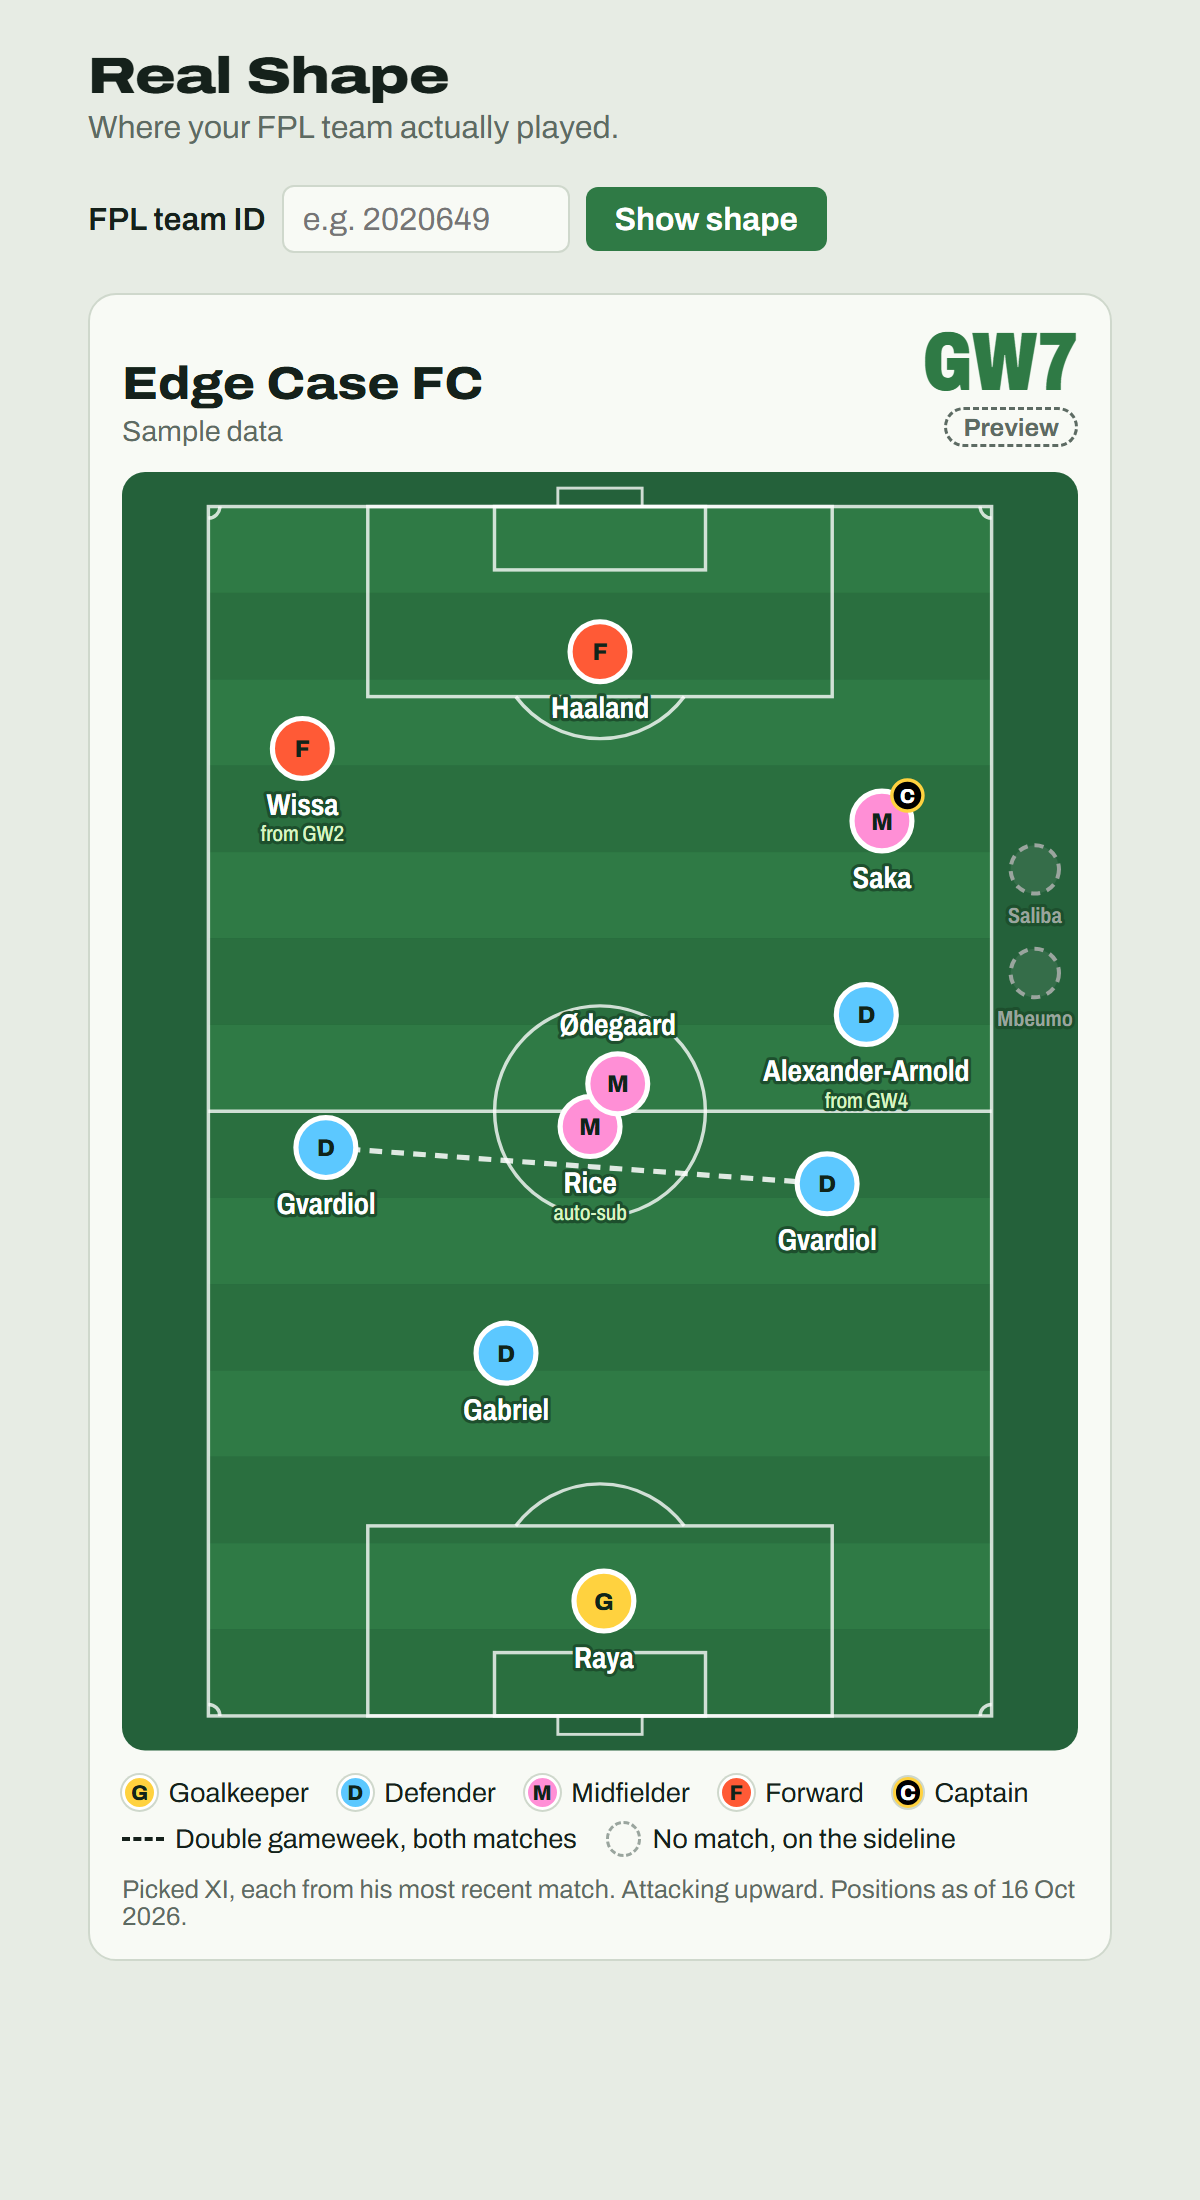
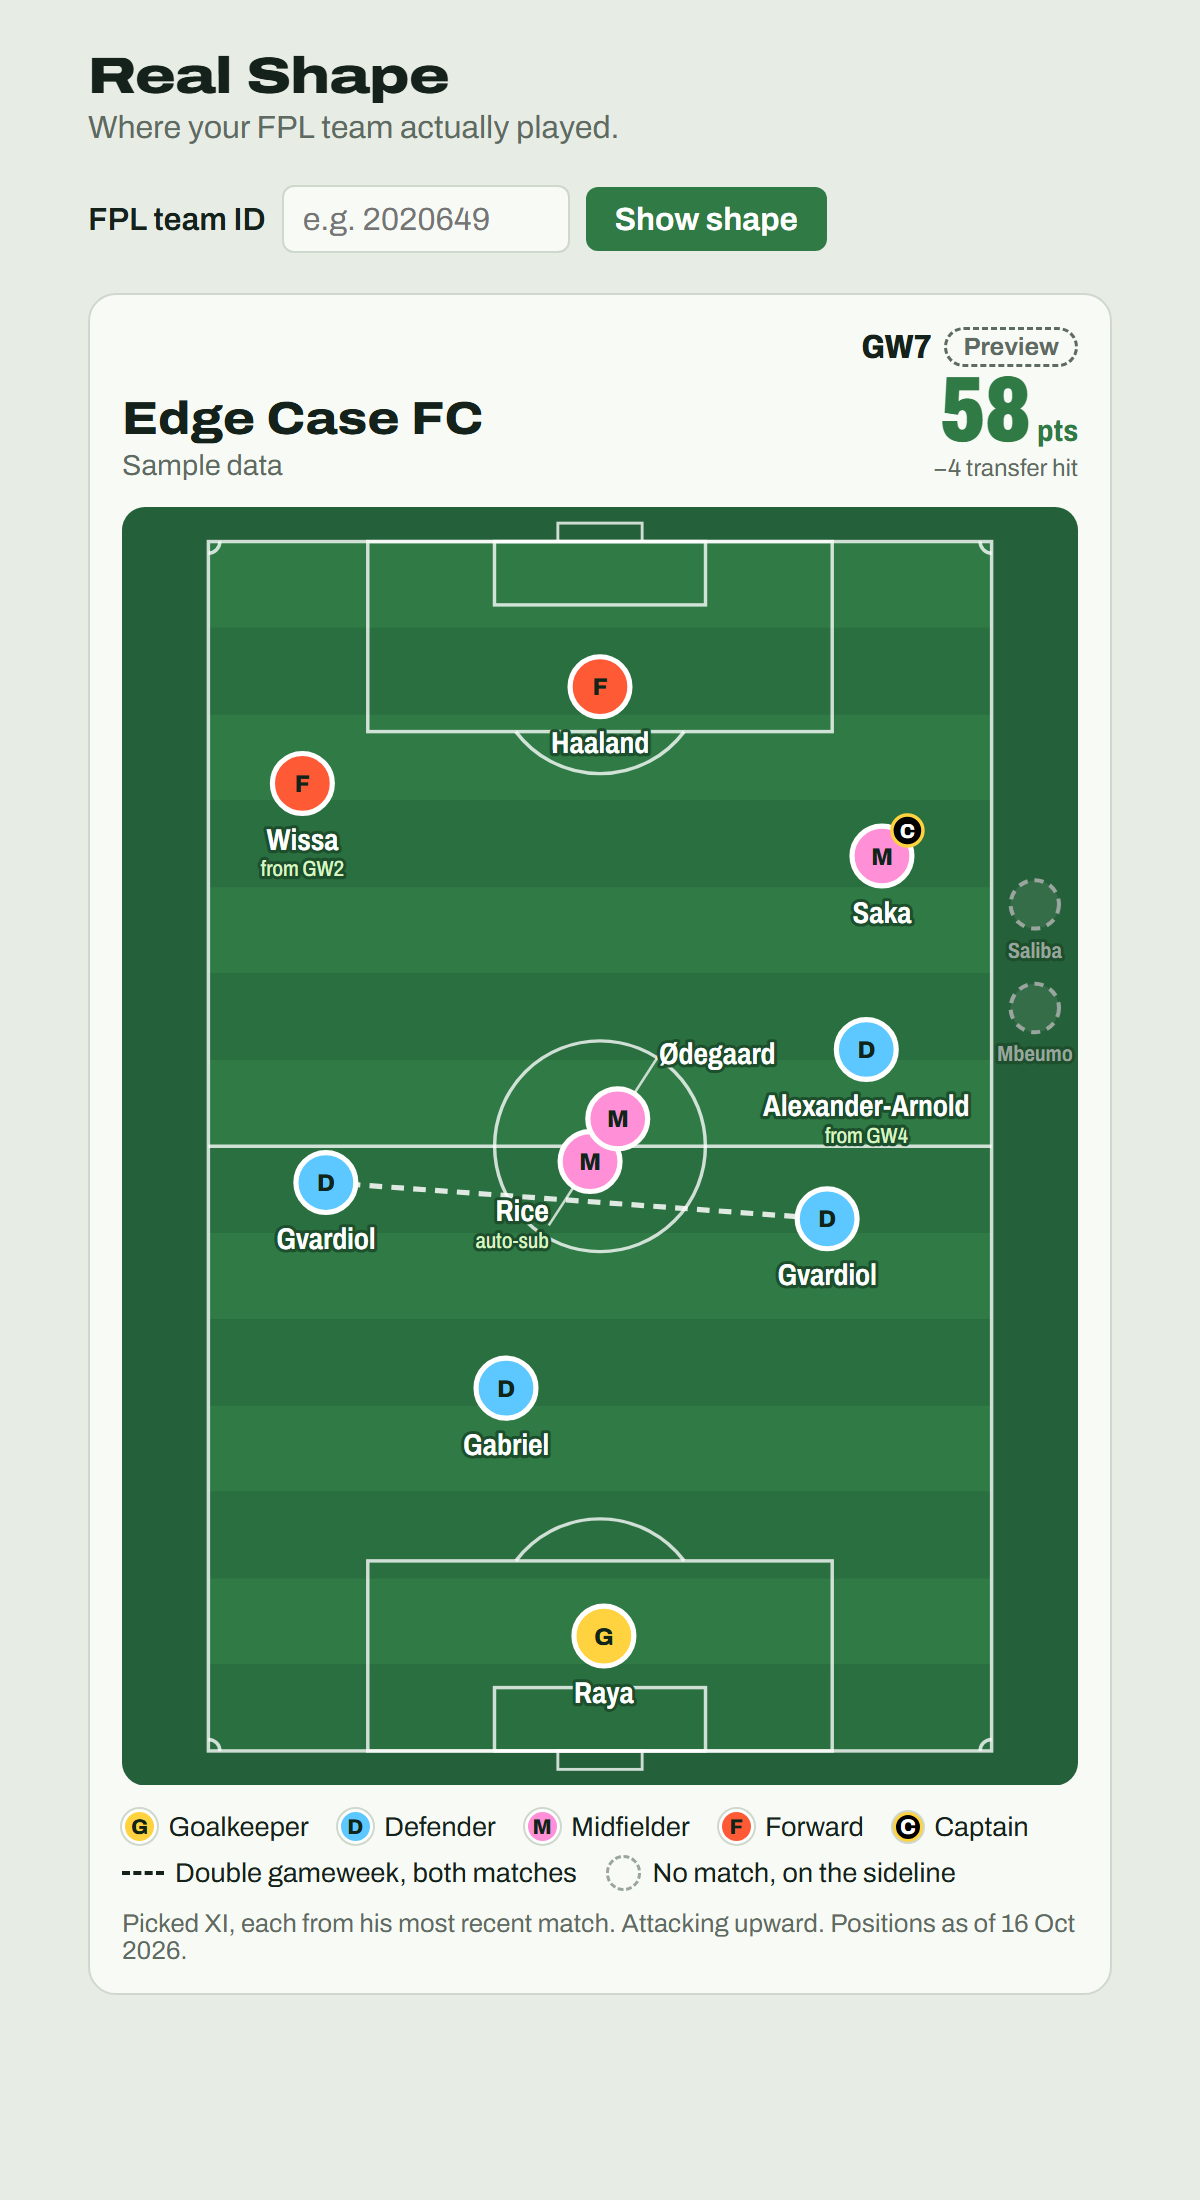
Add gameweek score and leader-line labels to the pitch (task 13 feedback)

Changed region(s): [[0.0925, 0.34, 0.8942, 0.8964], [0.0925, 0.1236, 0.8942, 0.3709], [0.2158, 0.3091, 0.3083, 0.4018]]

diff --git a/frontend/src/pitchLayout.ts b/frontend/src/pitchLayout.ts
@@ -36,6 +36,8 @@ export type LaidDot = {
   label: { x: number; y: number; anchor: 'middle' | 'start' | 'end' }
   // Second line under the name ("from GW4", "auto-sub"), if any.
   sub: string | null
+  // Line from the dot's edge to a label placed away from a crowded dot.
+  leader: [number, number, number, number] | null
 }
 
 export type Layout = {
@@ -115,45 +117,106 @@ function separate(dots: LaidDot[]) {
   }
 }
 
+// A dot with another dot this close is "crowded": its label moves out of the
+// cluster on a leader line, so it is clear which dot a name belongs to.
+const CROWD_DIST = DOT_R * 4.2
+const LABEL_GAP = 1.1
+const CALLOUT_DISTANCES = [DOT_R + 4, DOT_R + 7, DOT_R + 10.5]
+
+const area = (a: Box, b: Box) =>
+  Math.max(0, Math.min(a.x1, b.x1) - Math.max(a.x0, b.x0)) *
+  Math.max(0, Math.min(a.y1, b.y1) - Math.max(a.y0, b.y0))
+
+type Segment = [number, number, number, number]
+
+function segmentsCross([ax, ay, bx, by]: Segment, [cx, cy, dx, dy]: Segment) {
+  const side = (px: number, py: number, qx: number, qy: number, rx: number, ry: number) =>
+    Math.sign((qx - px) * (ry - py) - (qy - py) * (rx - px))
+  return (
+    side(ax, ay, bx, by, cx, cy) * side(ax, ay, bx, by, dx, dy) < 0 &&
+    side(cx, cy, dx, dy, ax, ay) * side(cx, cy, dx, dy, bx, by) < 0
+  )
+}
+
+// Distance from a circle centre to a segment, to catch leader lines through dots.
+function segmentDistance([ax, ay, bx, by]: Segment, px: number, py: number) {
+  const len2 = (bx - ax) ** 2 + (by - ay) ** 2
+  const t = len2 === 0 ? 0 : Math.max(0, Math.min(1, ((px - ax) * (bx - ax) + (py - ay) * (by - ay)) / len2))
+  return Math.hypot(ax + t * (bx - ax) - px, ay + t * (by - ay) - py)
+}
+
+// The label whose box touches point (px, py) on the side facing `angle` from the dot.
+function labelAt(d: LaidDot, angle: number, px: number, py: number): LaidDot['label'] {
+  const h = NAME_SIZE + (d.sub ? SUB_SIZE + 0.4 : 0)
+  const cos = Math.cos(angle)
+  const sin = Math.sin(angle)
+  if (cos > 0.4) return { x: px, y: py - h / 2 + NAME_SIZE * 0.8, anchor: 'start' }
+  if (cos < -0.4) return { x: px, y: py - h / 2 + NAME_SIZE * 0.8, anchor: 'end' }
+  return { x: px, y: sin > 0 ? py + NAME_SIZE * 0.8 : py - h + NAME_SIZE * 0.8, anchor: 'middle' }
+}
+
 function placeLabels(dots: LaidDot[]) {
   const placed: Box[] = []
-  const bounds: Box = { x0: 0, y0: 0, x1: VIEW_W, y1: VIEW_H }
-  const inside = (b: Box) => b.x0 >= bounds.x0 && b.x1 <= bounds.x1 && b.y0 >= bounds.y0 && b.y1 <= bounds.y1
-  // Top of the pitch first, so attackers get first pick of the space below them.
-  const order = [...dots].sort((a, b) => a.cy - b.cy)
+  const lines: Segment[] = []
+  const inside = (b: Box) => b.x0 >= 0 && b.x1 <= VIEW_W && b.y0 >= 0 && b.y1 <= VIEW_H
+  const crowded = new Set(
+    dots.filter((d) => dots.some((o) => o !== d && Math.hypot(o.cx - d.cx, o.cy - d.cy) < CROWD_DIST)),
+  )
+  // Lone dots first (they only need the space next to them), each group top first.
+  const order = [...dots].sort((a, b) => Number(crowded.has(a)) - Number(crowded.has(b)) || a.cy - b.cy)
+
   for (const d of order) {
-    const lines = d.sub ? NAME_SIZE + SUB_SIZE + 0.4 : NAME_SIZE
-    const gap = 1.1
-    const candidates: LaidDot['label'][] = [
-      { x: d.cx, y: d.cy + d.r + gap + NAME_SIZE * 0.8, anchor: 'middle' },
-      { x: d.cx, y: d.cy - d.r - gap - lines + NAME_SIZE * 0.8, anchor: 'middle' },
-      { x: d.cx + d.r + gap, y: d.cy + NAME_SIZE * 0.3, anchor: 'start' },
-      { x: d.cx - d.r - gap, y: d.cy + NAME_SIZE * 0.3, anchor: 'end' },
-      { x: d.cx + d.r * 0.7, y: d.cy + d.r + gap + NAME_SIZE * 0.8, anchor: 'start' },
-      { x: d.cx - d.r * 0.7, y: d.cy + d.r + gap + NAME_SIZE * 0.8, anchor: 'end' },
-      { x: d.cx + d.r * 0.7, y: d.cy - d.r - gap - lines + NAME_SIZE * 0.8, anchor: 'start' },
-      { x: d.cx - d.r * 0.7, y: d.cy - d.r - gap - lines + NAME_SIZE * 0.8, anchor: 'end' },
-    ]
-    // First spot that collides with nothing, else the one with the least overlap.
-    const area = (a: Box, b: Box) =>
-      Math.max(0, Math.min(a.x1, b.x1) - Math.max(a.x0, b.x0)) *
-      Math.max(0, Math.min(a.y1, b.y1) - Math.max(a.y0, b.y0))
-    let chosen = candidates[0]
+    type Option = { label: LaidDot['label']; leader: Segment | null }
+    const options: Option[] = []
+    if (!crowded.has(d)) {
+      // Below, above, right, left, then the diagonals.
+      const angles = [90, -90, 0, 180, 45, 135, -45, -135].map((a) => (a * Math.PI) / 180)
+      for (const a of angles) {
+        const reach = d.r + LABEL_GAP
+        options.push({ label: labelAt(d, a, d.cx + Math.cos(a) * reach, d.cy + Math.sin(a) * reach), leader: null })
+      }
+    } else {
+      // Away from the neighbours first, sweeping round to the other side.
+      const near = dots.filter((o) => o !== d && Math.hypot(o.cx - d.cx, o.cy - d.cy) < CROWD_DIST)
+      const mx = near.reduce((s, o) => s + o.cx, 0) / near.length
+      const my = near.reduce((s, o) => s + o.cy, 0) / near.length
+      const away = Math.hypot(d.cx - mx, d.cy - my) < 1e-6 ? Math.PI / 2 : Math.atan2(d.cy - my, d.cx - mx)
+      const angles = Array.from({ length: 16 }, (_, i) => away + (Math.ceil(i / 2) * (i % 2 ? 1 : -1) * Math.PI) / 8)
+      for (const dist of CALLOUT_DISTANCES) {
+        for (const a of angles) {
+          const px = d.cx + Math.cos(a) * dist
+          const py = d.cy + Math.sin(a) * dist
+          const leader: Segment = [d.cx + Math.cos(a) * d.r, d.cy + Math.sin(a) * d.r, px, py]
+          options.push({ label: labelAt(d, a, px, py), leader })
+        }
+      }
+    }
+
+    // First option that collides with nothing, else the one with the least overlap.
+    let chosen = options[0]
     let best = Infinity
-    for (const c of candidates) {
-      const box = labelBox({ ...d, label: c })
-      const score =
-        dots.reduce((sum, o) => sum + (o === d ? 0 : area(box, circleBox(o))), 0) +
+    for (const o of options) {
+      const box = labelBox({ ...d, label: o.label })
+      let score =
+        dots.reduce((sum, other) => sum + (other === d ? 0 : area(box, circleBox(other))), 0) +
         placed.reduce((sum, p) => sum + area(box, p) * 2, 0) +
         (inside(box) ? 0 : 1000)
+      if (o.leader) {
+        const leader = o.leader
+        score += dots.filter((other) => other !== d && segmentDistance(leader, other.cx, other.cy) < other.r + 0.3).length * 20
+        score += lines.filter((l) => segmentsCross(leader, l)).length * 20
+        score += placed.filter((p) => segmentDistance(leader, (p.x0 + p.x1) / 2, (p.y0 + p.y1) / 2) < (p.y1 - p.y0) / 2).length * 20
+      }
       if (score < best) {
         best = score
-        chosen = c
+        chosen = o
       }
       if (score === 0) break
     }
-    d.label = chosen
+    d.label = chosen.label
+    d.leader = chosen.leader
     placed.push(labelBox(d))
+    if (chosen.leader) lines.push(chosen.leader)
   }
 }
 
@@ -173,11 +236,12 @@ export function layoutDots(dots: PlotDot[]): Layout {
         r: GHOST_R,
         label: { x: cx, y: cy + GHOST_R + 1 + SUB_SIZE * 0.8, anchor: 'middle' },
         sub: null,
+        leader: null,
       })
       return
     }
     const [cx, cy] = toSvg(dot.x, dot.y)
-    onPitch.push({ dot, key, cx, cy, r: DOT_R, label: { x: cx, y: cy, anchor: 'middle' }, sub: subLabel(dot) })
+    onPitch.push({ dot, key, cx, cy, r: DOT_R, label: { x: cx, y: cy, anchor: 'middle' }, sub: subLabel(dot), leader: null })
   })
 
   separate(onPitch)

diff --git a/frontend/src/index.css b/frontend/src/index.css
@@ -156,17 +156,47 @@ input:focus-visible {
   flex-shrink: 0;
 }
 
-.gw-number {
-  font-size: 2.6rem;
+.gw-line {
+  display: flex;
+  align-items: center;
+  gap: 0.4rem;
+}
+
+.gw-label {
+  font-size: 1.05rem;
+  font-weight: 800;
+  font-stretch: 85%;
+}
+
+.score {
+  display: flex;
+  align-items: baseline;
+  gap: 0.2rem;
+  margin: 0.15rem 0 0;
+  color: var(--grass);
+}
+
+.score-number {
+  font-size: 2.9rem;
   line-height: 0.85;
   font-weight: 900;
   font-stretch: 70%;
   font-variant-numeric: tabular-nums;
-  color: var(--grass);
+}
+
+.score-unit {
+  font-size: 0.95rem;
+  font-weight: 750;
+  font-stretch: 85%;
+}
+
+.hit {
+  margin: 0.15rem 0 0;
+  font-size: 0.75rem;
+  color: var(--muted);
 }
 
 .state {
-  margin-top: 0.3rem;
   font-size: 0.78rem;
   font-weight: 700;
   padding: 0.1rem 0.5rem;
@@ -291,6 +321,12 @@ input:focus-visible {
   stroke-width: 0.45;
   stroke-dasharray: 1.1 0.8;
   opacity: 0.85;
+}
+
+.leader {
+  stroke: #fff;
+  stroke-width: 0.22;
+  opacity: 0.75;
 }
 
 .dot-body {

diff --git a/frontend/src/PitchCard.tsx b/frontend/src/PitchCard.tsx
@@ -34,8 +34,15 @@ export default function PitchCard({ plot }: { plot: Plot }) {
           <p>{plot.manager_name}</p>
         </div>
         <div className="card-gw">
-          <span className="gw-number">GW{plot.gw}</span>
-          <span className={`state state-${plot.state}`}>{state.badge}</span>
+          <div className="gw-line">
+            <span className="gw-label">GW{plot.gw}</span>
+            <span className={`state state-${plot.state}`}>{state.badge}</span>
+          </div>
+          <p className="score">
+            <span className="score-number">{plot.points}</span>
+            <span className="score-unit">pts</span>
+          </p>
+          {plot.transfers_cost > 0 && <p className="hit">−{plot.transfers_cost} transfer hit</p>}
         </div>
       </header>
 

diff --git a/frontend/src/Pitch.tsx b/frontend/src/Pitch.tsx
@@ -143,6 +143,19 @@ export default function Pitch({ dots, title }: { dots: PlotDot[]; title: string 
       {layout.links.map(([a, b]) => (
         <line key={`${a.key}-link`} className="link" x1={a.cx} y1={a.cy} x2={b.cx} y2={b.cy} />
       ))}
+      {layout.dots.map(
+        (d) =>
+          d.leader && (
+            <line
+              key={`${d.key}-leader`}
+              className="leader"
+              x1={d.leader[0]}
+              y1={d.leader[1]}
+              x2={d.leader[2]}
+              y2={d.leader[3]}
+            />
+          ),
+      )}
       {layout.dots.map((d) => (
         <Dot key={d.key} d={d} />
       ))}

diff --git a/frontend/src/api.ts b/frontend/src/api.ts
@@ -32,6 +32,8 @@ export type TeamGameweek = {
   // Tenths of £m.
   bank: number
   squad_value: number
+  points: number
+  transfers_cost: number
   captain_id: number
   vice_captain_id: number
   effective_captain_id: number | null
@@ -92,6 +94,9 @@ export type Plot = {
   manager_name: string
   gw: number
   state: 'preview' | 'locked'
+  // Gameweek score before transfer hits (live while in progress), and the hit.
+  points: number
+  transfers_cost: number
   prev_gw: number | null
   next_gw: number | null
   data_as_of: string | null

diff --git a/frontend/src/fixtures/edgeCases.ts b/frontend/src/fixtures/edgeCases.ts
@@ -23,6 +23,8 @@ export const edgeCases: Plot = {
   manager_name: 'Sample data',
   gw: 7,
   state: 'preview',
+  points: 58,
+  transfers_cost: 4,
   prev_gw: 6,
   next_gw: null,
   data_as_of: '2026-10-17T05:21:57.469430',

diff --git a/backend/app/fpl/team.py b/backend/app/fpl/team.py
@@ -135,6 +135,10 @@ class TeamGameweek(_Model):
     # bank and uses market prices (see `docs/fpl-api.md`).
     bank: int
     squad_value: int
+    # Gameweek points before transfer hits (live while the gameweek is in
+    # progress) and the hit taken, as FPL reports them.
+    points: int
+    transfers_cost: int
     # As picked by the manager.
     captain_id: int
     vice_captain_id: int
@@ -253,6 +257,8 @@ class TeamService:
             chip=picks.active_chip,
             bank=picks.entry_history.bank,
             squad_value=picks.entry_history.value,
+            points=picks.entry_history.points,
+            transfers_cost=picks.entry_history.event_transfers_cost,
             captain_id=_one(picks.picks, "is_captain"),
             vice_captain_id=_one(picks.picks, "is_vice_captain"),
             effective_captain_id=next(

diff --git a/backend/app/logic/plot.py b/backend/app/logic/plot.py
@@ -56,6 +56,9 @@ class Plot(_Model):
     manager_name: str
     gw: int
     state: GameweekState
+    # The team's gameweek score before hits, and the hit (FPL `entry_history`).
+    points: int
+    transfers_cost: int
     # Neighbouring gameweeks the team can be shown for; None at an edge.
     prev_gw: int | None
     next_gw: int | None
@@ -117,6 +120,8 @@ def build_plot(team: TeamGameweek, session: Session, latest_gw: int | None) -> P
         manager_name=team.manager_name,
         gw=team.gameweek,
         state=state,
+        points=team.points,
+        transfers_cost=team.transfers_cost,
         prev_gw=prev_gw,
         next_gw=next_gw,
         data_as_of=load_data_as_of(session),

diff --git a/backend/tests/test_fpl_team.py b/backend/tests/test_fpl_team.py
@@ -114,6 +114,7 @@ def test_loads_team_gameweek(service, session):
     assert team.deadline == datetime(2026, 10, 10, 10, tzinfo=UTC)
     assert team.chip is None
     assert (team.bank, team.squad_value) == (1, 1017)
+    assert (team.points, team.transfers_cost) == (77, 0)
 
     assert [p.position for p in team.picks] == list(range(1, 16))
     assert [p.starter for p in team.picks] == [True] * 11 + [False] * 4

diff --git a/backend/tests/test_plot.py b/backend/tests/test_plot.py
@@ -107,6 +107,7 @@ def test_locked_gameweek(api):
     body = response.json()
     assert (body["team_id"], body["team_name"], body["gw"]) == (1234, "Test FC", 6)
     assert body["state"] == "locked"
+    assert (body["points"], body["transfers_cost"]) == (77, 0)
     assert (body["prev_gw"], body["next_gw"]) == (5, None)
     assert body["data_as_of"] == "2026-10-12T08:00:00"
 

diff --git a/backend/tests/test_logic_gameweek.py b/backend/tests/test_logic_gameweek.py
@@ -96,6 +96,8 @@ def make_team(
         chip=None,
         bank=0,
         squad_value=1000,
+        points=50,
+        transfers_cost=0,
         captain_id=captain,
         vice_captain_id=vice,
         effective_captain_id=effective_captain or captain,

diff --git a/README.md b/README.md
@@ -35,7 +35,7 @@ FPL shows a team as a tidy formation, but managers pick attacking "defenders" an
 
 - **Task 12 — Gameweek plot API endpoint** (done 2026-10-17): `GET /api/team/{team_id}/plot/{gw}` and `/plot/latest` return the graphic's JSON: team name, gameweek, `state` (preview / locked), `prev_gw` / `next_gw`, `data_as_of` (latest finished sync) and the dots (name, web name, role, club, slot, x / y rounded to 2 decimals, captain, ghost and reason, `from_gw`, `link_group`, `replaces`). `backend/app/logic/plot.py` joins task 11's dots with player details. `prev_gw` stops at the team's first gameweek, `next_gw` at the newest passed deadline. `latest` falls back one gameweek while FPL is not serving fresh picks yet. The web app never loads the Sofascore adapter (checked by a test and in the server log). Owner's team GW1-6 checked live, all locked, 11 dots, no ghosts. Docs and samples: `docs/api.md`. 215 tests pass.
 
-- **Task 13 — Pitch rendering (static, one locked GW)** (awaiting approval, 2026-10-17): React `Pitch` component draws an SVG pitch to scale (68 x 105 m, mown stripes, full markings) with the team attacking upward, from `GET /api/team/{id}/plot/{gw}`. Dots colored by FPL role with the role letter inside, a legend, short-name labels placed to avoid collisions, a black "C" captain badge, a "from GWx" / "auto-sub" second line, dashed lines joining double-gameweek dots, and greyed ghosts on the sideline. Players in the same spot are nudged apart by at most about 2 m. `PitchCard` adds the team name, GW number, a Full time / Preview badge and the data date. Self-hosted Archivo font (ready for image export), fits a 360 px phone. The interim list view is removed. Dev-only sample with every edge case at `?fixture=edges`. Screenshots: `docs/screenshots/pitch-v1.png` (+ `-phone`, `-edge-cases`).
+- **Task 13 — Pitch rendering (static, one locked GW)** (awaiting approval, 2026-10-17): React `Pitch` component draws an SVG pitch to scale (68 x 105 m, mown stripes, full markings) with the team attacking upward, from `GET /api/team/{id}/plot/{gw}`. Dots colored by FPL role with the role letter inside, a legend, short-name labels placed to avoid collisions, a black "C" captain badge, a "from GWx" / "auto-sub" second line, dashed lines joining double-gameweek dots, and greyed ghosts on the sideline. Players in the same spot are nudged apart by at most about 2 m. Crowded dots get callout labels on leader lines so each name clearly belongs to one dot. `PitchCard` adds the team name, GW number, the gameweek score (and any transfer hit, now in the plot API as `points` / `transfers_cost`), a Full time / Preview badge and the data date. Self-hosted Archivo font (ready for image export), fits a 360 px phone. The interim list view is removed. Dev-only sample with every edge case at `?fixture=edges`. Screenshots: `docs/screenshots/pitch-v1.png` (+ `-phone`, `-edge-cases`).
 
 ## Next task
 Waiting for owner approval on task 13 (`tasks/13-pitch-rendering.md`). Then **Task 14 — Gameweek mode UI + navigation** → `tasks/14-gameweek-mode-ui.md`
